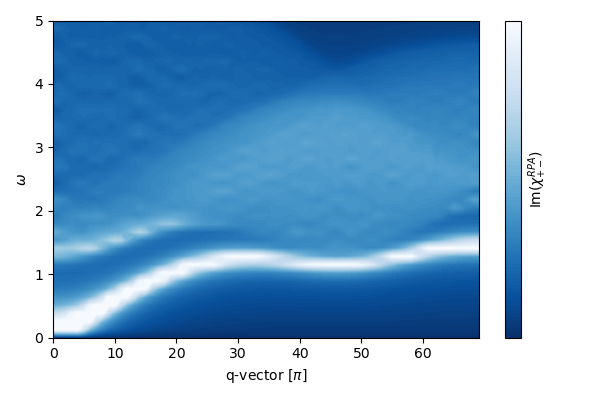
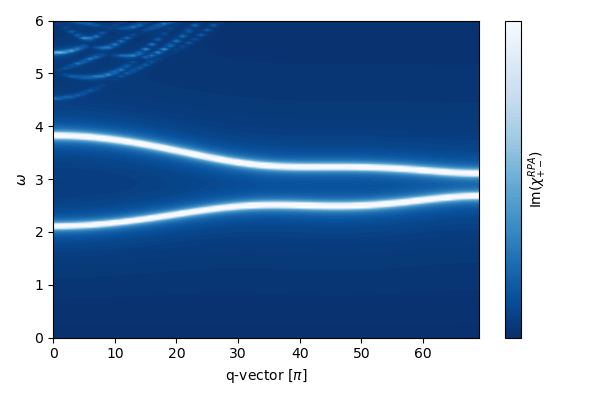
Update

diff --git a/src/pyqula/paralleltk/jlib.py b/src/pyqula/paralleltk/jlib.py
@@ -1,0 +1,82 @@
+import sys
+import atexit
+
+# Attempt to import joblib
+try:
+    import joblib
+    _joblib_available = True
+except ImportError:
+    _joblib_available = False
+    print("joblib not installed. Install with: pip install joblib", file=sys.stderr)
+
+# Global state
+_parallel = None          # single Parallel instance
+_in_parallel = False      # flag to prevent nested parallelism
+_cores = -1               # -1 = all cores (default)
+
+# ---------- core management ----------
+def set_cores(n=1):
+    """Set the number of parallel jobs.  n='max' uses all cores."""
+    global _cores
+    if n == "max":
+        _cores = -1
+    else:
+        _cores = int(n)
+
+# ---------- parallel pool lifecycle ----------
+def _get_parallel():
+    """Return a reusable Parallel instance, creating it if needed."""
+    global _parallel
+    if _parallel is None and _joblib_available:
+        # Use the 'loky' backend – more robust than default multiprocessing.
+        _parallel = joblib.Parallel(n_jobs=_cores, backend='loky', verbose=0)
+        # Register cleanup at exit.
+        atexit.register(_cleanup_parallel)
+    return _parallel
+
+def _cleanup_parallel():
+    """Forcefully terminate the pool to avoid resource_tracker errors."""
+    global _parallel
+    if _parallel is not None:
+        try:
+            # For loky backend, this is the clean way.
+            if hasattr(_parallel, '_terminate_backend'):
+                _parallel._terminate_backend()
+            # Fallback: try to close the underlying pool.
+            if hasattr(_parallel, '_pool'):
+                _parallel._pool.close()
+                _parallel._pool.join()
+        except Exception:
+            pass
+        _parallel = None
+
+# ---------- main parallel call ----------
+def pcall(fun, args):
+    """Call `fun` on every element of `args` in parallel (or serial if nested)."""
+    global _in_parallel
+
+    # If joblib is missing, run serially.
+    if not _joblib_available:
+        return [fun(a) for a in args]
+
+    # Prevent nested parallelism (workers calling pcall again).
+    if _in_parallel:
+        return [fun(a) for a in args]
+
+    # Get the pool (creates it if necessary).
+    parallel = _get_parallel()
+    if parallel is None:
+        # Fallback if pool creation failed.
+        return [fun(a) for a in args]
+
+    # Execute in parallel.
+    _in_parallel = True
+    try:
+        results = parallel(joblib.delayed(fun)(a) for a in args)
+    except Exception as e:
+        print(f"Parallel execution failed: {e}", file=sys.stderr)
+        results = [fun(a) for a in args]
+    finally:
+        _in_parallel = False
+
+    return results

diff --git a/src/pyqula/parallel.py b/src/pyqula/parallel.py
@@ -13,6 +13,19 @@ def set_num_threads():
     else:
         numba.set_num_threads(1) # single thread
 
-from .paralleltk.multiprocess import set_cores
-from .paralleltk.multiprocess import pcall
-from .paralleltk.multiprocess import _num_cores as cores
+#from .paralleltk.multiprocess import set_cores
+#from .paralleltk.multiprocess import pcall
+#from .paralleltk.multiprocess import _num_cores as cores
+#from .paralleltk.jlib import pcall
+#from .paralleltk.jlib import set_cores
+#from .paralleltk.jlib import _cores as cores
+
+# parallelization not working yet, workaround
+cores = 1
+def pcall(f,xs,**kwargs):  return [f(x) for x in xs]
+def set_cores(n):  
+    global cores
+    cores=1
+
+
+

diff --git a/examples/2d/parallel_scf/main.py b/examples/2d/parallel_scf/main.py
@@ -11,11 +11,17 @@ import numpy as np
 from pyqula import geometry
 from pyqula import parallel
 g = geometry.honeycomb_lattice()
-Us = np.linspace(0.,4.,10) # different Us
-h = g.get_hamiltonian() # create hamiltonian of the system
-parallel.set_cores(7)
-h.get_dos(nk=300)
-#hmf = h.get_mean_field_hamiltonian(nk=100,U=3.) # mean field Hamiltonian
+g = g.get_supercell(2)
+cores = [1,1,7]
+import time
+for core in cores:
+    parallel.set_cores(core)
+    h = g.get_hamiltonian() # create hamiltonian of the system
+    t0 = time.time()
+    hmf = h.get_mean_field_hamiltonian(nk=10,U=3.,mf="antiferro") 
+    # mean field Hamiltonian
+    t1 = time.time()
+    print("Time with",core,"is",t1-t0)
 
 
 